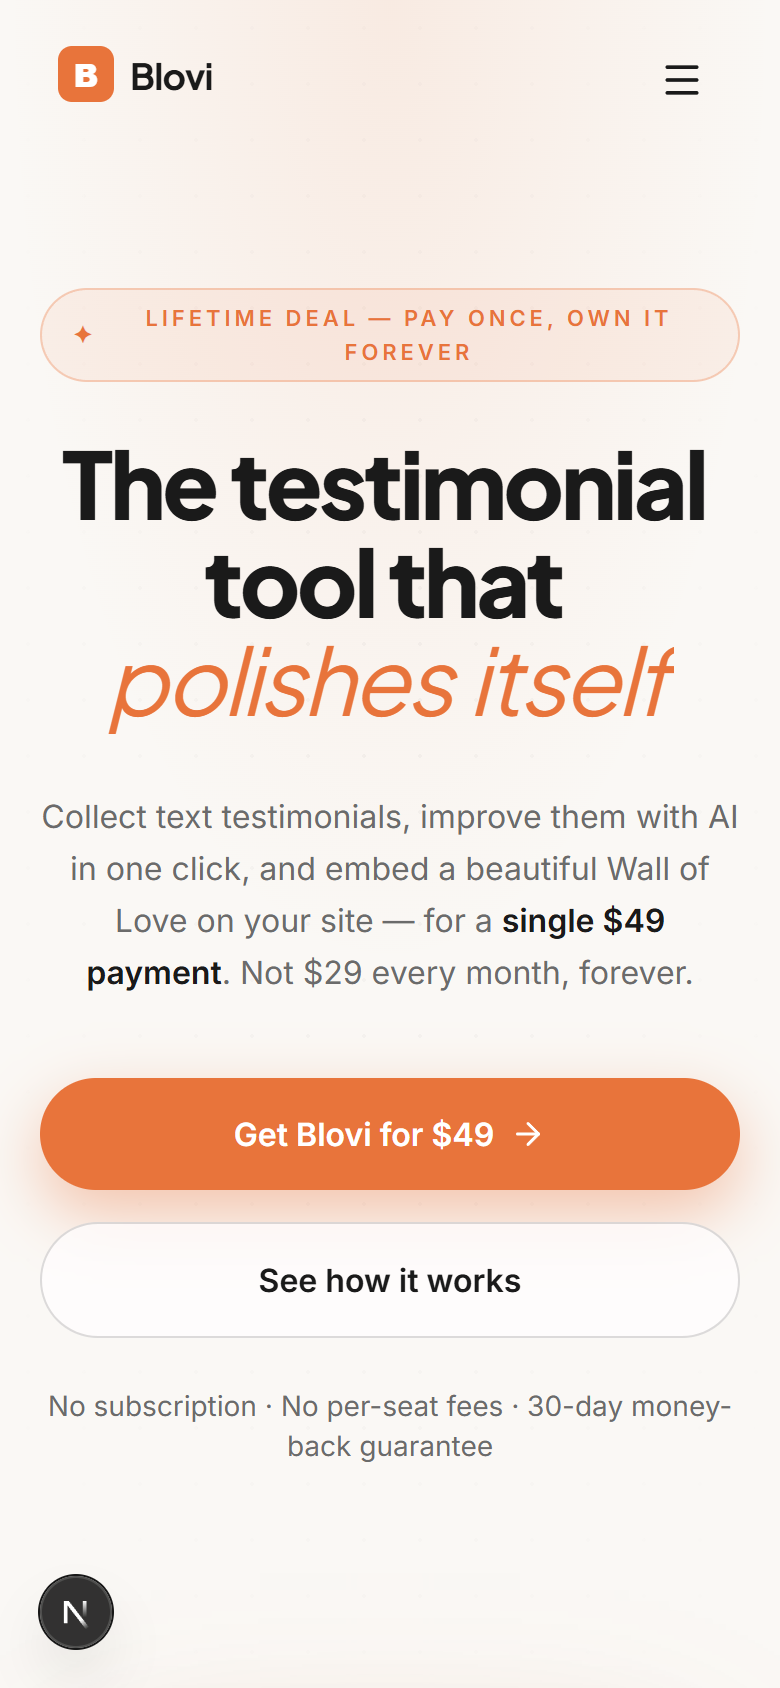
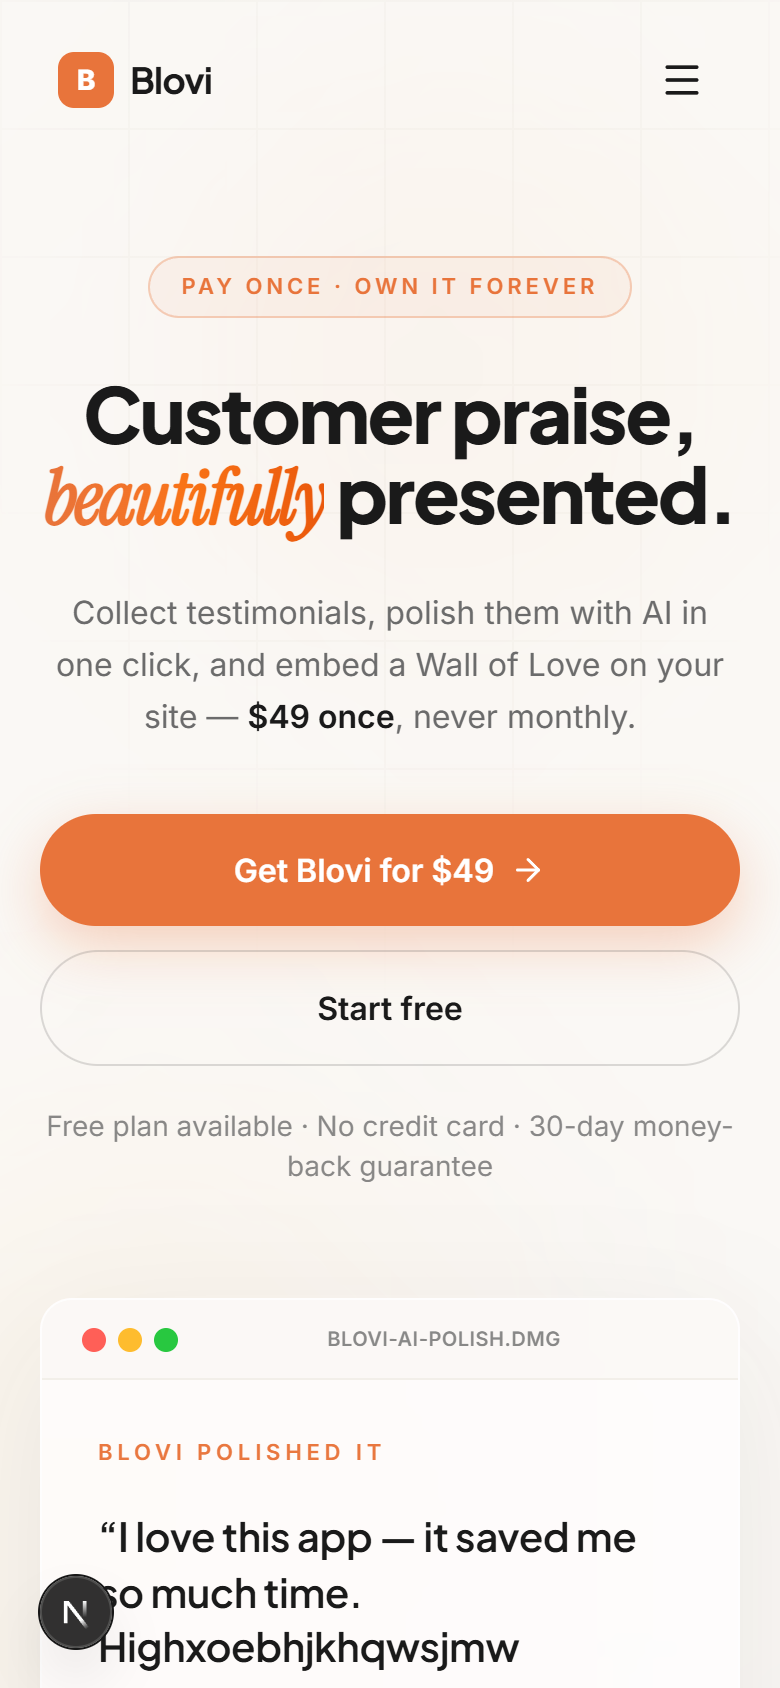
Design: clean premium LandingHero redesign without fake stats

diff --git a/components/landing/LandingHero.tsx b/components/landing/LandingHero.tsx
@@ -158,9 +158,16 @@ export default function LandingHero() {
   return (
     <section
       ref={sectionRef}
-      className="relative flex min-h-[92svh] w-full flex-col items-center justify-center bg-[#FAF8F5] px-5 pb-20 pt-32 md:px-10"
+      className="relative flex min-h-[92svh] w-full flex-col items-center justify-center bg-[#FAF8F5] px-5 pb-20 pt-32 md:px-10 overflow-hidden"
     >
-      <div className="mx-auto flex w-full max-w-[880px] flex-col items-center text-center">
+      {/* Background SVG grid pattern */}
+      <div className="pointer-events-none absolute inset-0 bg-[linear-gradient(to_right,#ECE7E0_1px,transparent_1px),linear-gradient(to_bottom,#ECE7E0_1px,transparent_1px)] bg-[size:4rem_4rem] [mask-image:radial-gradient(ellipse_60%_50%_at_50%_0%,#000_70%,transparent_100%)] opacity-[0.25]" />
+      
+      {/* Animated glowing mesh gradients */}
+      <div className="pointer-events-none absolute left-1/4 top-10 h-72 w-72 rounded-full bg-gradient-to-r from-[#E8743B]/10 to-[#FEBC2E]/5 blur-3xl animate-pulse" style={{ animationDuration: "8s" }} />
+      <div className="pointer-events-none absolute right-1/4 bottom-20 h-96 w-96 rounded-full bg-gradient-to-r from-[#FEBC2E]/10 to-[#E8743B]/5 blur-3xl animate-pulse" style={{ animationDuration: "12s" }} />
+
+      <div className="mx-auto flex w-full max-w-[880px] flex-col items-center text-center relative z-10">
         <div className="hero-fade">
           <span className="inline-flex items-center gap-2 rounded-full border border-[#E8743B]/30 bg-[#E8743B]/[0.06] px-4 py-1.5 text-[11px] font-semibold uppercase tracking-[0.18em] text-[#E8743B] md:text-xs">
             Pay once · Own it forever
@@ -173,7 +180,7 @@ export default function LandingHero() {
         >
           Customer praise,{" "}
           <span
-            className="font-normal italic text-[#E8743B]"
+            className="font-semibold italic bg-gradient-to-r from-[#E8743B] via-[#F97316] to-[#EA580C] bg-clip-text text-transparent"
             style={{ fontFamily: "var(--font-serif-accent)" }}
           >
             beautifully
@@ -208,42 +215,52 @@ export default function LandingHero() {
           Free plan available · No credit card · 30-day money-back guarantee
         </p>
 
-        {/* Live polish demo — quiet, product-like */}
+        {/* Live polish demo — macOS window style */}
         <div
           ref={cardRef}
           aria-live="polite"
-          className="mt-14 w-full max-w-[640px] rounded-2xl border border-[#ECE7E0] bg-white p-7 text-left shadow-[0_18px_50px_rgba(26,26,26,0.07)] md:p-9"
+          className="mt-14 w-full max-w-[650px] rounded-2xl border border-white/60 bg-white/70 shadow-[0_22px_70px_rgba(26,26,26,0.08)] backdrop-blur-md p-0 overflow-hidden"
         >
-          <div className="relative mb-4 h-5">
-            <p className="hero-label-before absolute inset-x-0 text-[11px] font-semibold uppercase tracking-[0.22em] text-[#6B6B6B]">
-              Your customer wrote
-            </p>
-            <p className="hero-label-after absolute inset-x-0 text-[11px] font-semibold uppercase tracking-[0.22em] text-[#E8743B] opacity-0">
-              Blovi polished it
-            </p>
+          {/* macOS window bar */}
+          <div className="flex items-center gap-1.5 border-b border-[#ECE7E0]/60 bg-[#FAF8F5]/80 px-5 py-3">
+            <span className="h-3 w-3 rounded-full bg-[#FF5F57]" />
+            <span className="h-3 w-3 rounded-full bg-[#FEBC2E]" />
+            <span className="h-3 w-3 rounded-full bg-[#28C840]" />
+            <span className="mx-auto text-[10px] font-semibold text-[#6B6B6B]/80 tracking-wide uppercase select-none">blovi-ai-polish.dmg</span>
           </div>
 
-          <p
-            ref={quoteRef}
-            className="min-h-[3.4em] text-xl font-semibold leading-snug tracking-[-0.01em] text-[#1A1A1A] md:text-2xl"
-            style={{ fontFamily: "var(--font-display)" }}
-          >
-            {`“${quote.messy}”`}
-          </p>
+          <div className="p-7 md:p-9 text-left">
+            <div className="relative mb-4 h-5">
+              <p className="hero-label-before absolute inset-x-0 text-[11px] font-semibold uppercase tracking-[0.22em] text-[#6B6B6B]">
+                Your customer wrote
+              </p>
+              <p className="hero-label-after absolute inset-x-0 text-[11px] font-semibold uppercase tracking-[0.22em] text-[#E8743B] opacity-0">
+                Blovi polished it
+              </p>
+            </div>
 
-          <div className="mt-5 flex items-center justify-between gap-4 border-t border-[#ECE7E0] pt-5">
-            <p className="text-sm text-[#6B6B6B]">
-              <span className="text-[#E8743B]">★★★★★</span>
-              {"  "}— {quote.name}, {quote.role}
-            </p>
-            <button
-              onClick={polish}
-              aria-label="Polish this testimonial with AI"
-              className="hero-polish-btn flex shrink-0 cursor-pointer items-center gap-1.5 rounded-full bg-[#16161D] px-4 py-2 text-xs font-semibold text-white transition-colors hover:bg-[#E8743B]"
+            <p
+              ref={quoteRef}
+              className="min-h-[3.4em] text-xl font-semibold leading-snug tracking-[-0.01em] text-[#1A1A1A] md:text-2xl"
+              style={{ fontFamily: "var(--font-display)" }}
             >
-              <Sparkles size={13} />
-              Polish with AI
-            </button>
+              {`“${quote.messy}”`}
+            </p>
+
+            <div className="mt-5 flex items-center justify-between gap-4 border-t border-[#ECE7E0]/60 pt-5">
+              <p className="text-sm text-[#6B6B6B]">
+                <span className="text-[#E8743B]">★★★★★</span>
+                {"  "}— {quote.name}, {quote.role}
+              </p>
+              <button
+                onClick={polish}
+                aria-label="Polish this testimonial with AI"
+                className="hero-polish-btn flex shrink-0 cursor-pointer items-center gap-1.5 rounded-full bg-[#16161D] px-5 py-2.5 text-xs font-semibold text-white transition-all hover:bg-[#E8743B] hover:scale-105 active:scale-95 shadow-md shadow-black/10"
+              >
+                <Sparkles size={13} />
+                Polish with AI
+              </button>
+            </div>
           </div>
         </div>
       </div>
